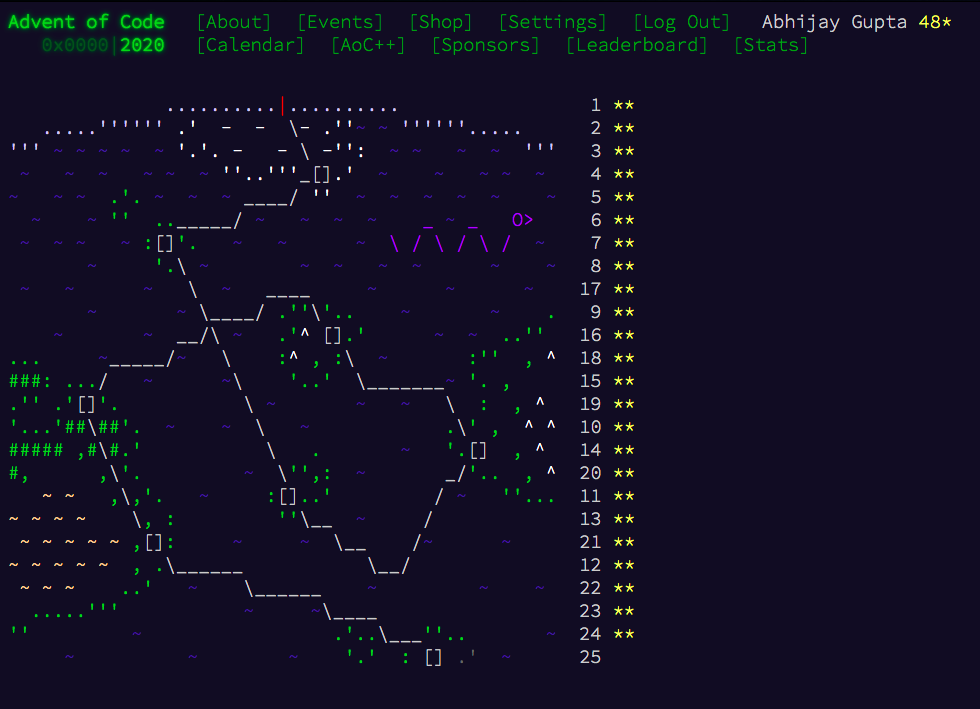
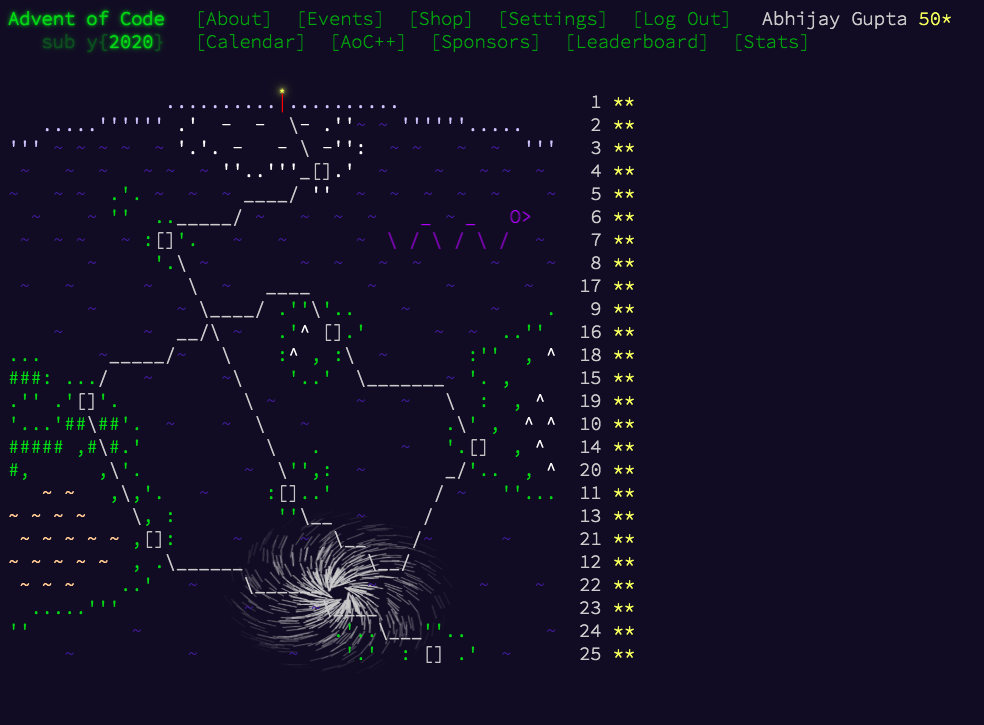
Solve Day 25: Combo Breaker (#30)
🌟 Collected all 50 stars! 🌟

diff --git a/Day-25/advent-25.py b/Day-25/advent-25.py
@@ -1,0 +1,46 @@
+"""
+URL for challenge: https://adventofcode.com/2020/day/25
+"""
+
+
+def process_input():
+    f = open("advent-25-input.txt")
+    card_pubkey = int(f.readline().rstrip())
+    door_pubkey = int(f.readline().rstrip())
+
+    return card_pubkey, door_pubkey
+
+
+def part1():
+    card_pubkey, door_pubkey = process_input()
+    initial_subject_number, divisor = 7, 20201227
+    value, card_loop_size = 1, 0
+    while value != card_pubkey:
+        value *= initial_subject_number
+        value %= divisor
+        card_loop_size += 1
+
+    encryption_key = 1
+    for _ in range(card_loop_size):
+        encryption_key *= door_pubkey
+        encryption_key %= divisor
+
+    return encryption_key
+
+
+def part2():
+    return "Freebie!! - Gift from the North Pole :)"
+
+
+def run():
+    chall = int(input("Please enter either 1 or 2 for the challenges: "))
+    if chall == 1:
+        print(part1())
+    elif chall == 2:
+        print(part2())
+    else:
+        print("You need to enter either 1 or 2")
+        exit(1)
+
+
+run()

diff --git a/README.md b/README.md
@@ -6,4 +6,4 @@ From the [About](https://adventofcode.com/2020/about) page of Advent of Code -
 
 ## Current Status
 
-![Current status](./current-status.png)
+https://user-images.githubusercontent.com/23014438/116113736-c6702980-a686-11eb-810e-4d018998af67.mov
